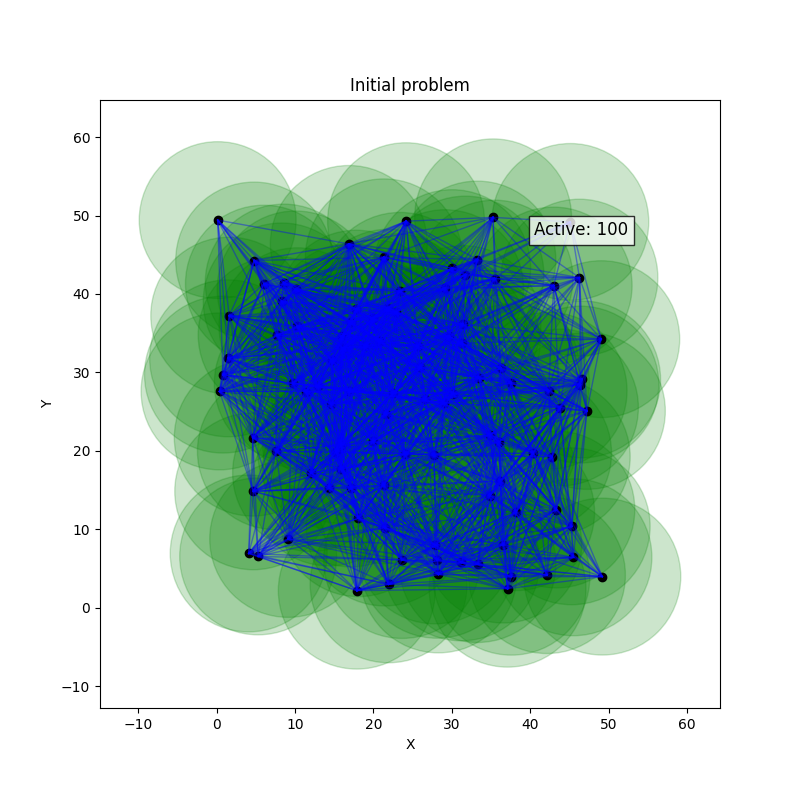
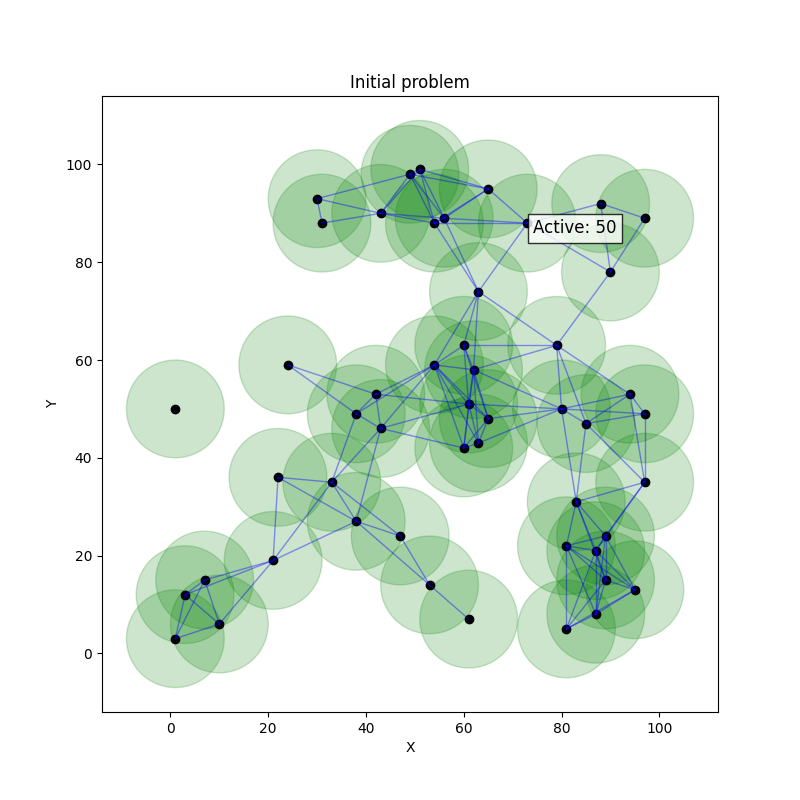
Loss function change

diff --git a/Crossing.py b/Crossing.py
@@ -4,12 +4,14 @@ from Visualizer import plot_transmitters
 
 class Crossing(GeneticAlgorithm):
 
-    def __init__(self, transmitters, radius, n_population, n_generations, n_crossover, n_mutation):
-        super().__init__(transmitters, radius,c1=1, c2=-1)
+    def __init__(self, transmitters, radius, n_plane_min, n_plane_max, n_population, n_generations, n_crossover, n_mutation):
+        self.n_plane_min = n_plane_min
+        self.n_plane_max = n_plane_max
         self.n_population = n_population
         self.n_generations = n_generations
         self.n_crossover = n_crossover
         self.n_mutation = n_mutation
+        super().__init__(transmitters, radius,c1=1, c2=100)
 
 
     def select(self, population, scores, n_tournament_size=5):
@@ -25,7 +27,6 @@ class Crossing(GeneticAlgorithm):
         
         return population[best_parent_idx]
 
-    
 
     def crossover(self, parent1, parent2):
         child1 = np.copy(parent1)
@@ -43,6 +44,34 @@ class Crossing(GeneticAlgorithm):
         for i, bit in enumerate(child):
             if np.random.rand() < self.n_mutation:
                 child[i] = not bit
+
+
+    def is_covered(self, x, y, transmitter):
+        return np.sqrt((transmitter[0] - x)**2 + (transmitter[1] - y)**2) < self.radius
+
+
+    def calculate_area_coverage(self, active_transmitters):
+        grid_x, grid_y = np.meshgrid(
+            np.arange(self.n_plane_min, self.n_plane_max),
+            np.arange(self.n_plane_min, self.n_plane_max)
+        )
+        grid = np.stack([grid_x, grid_y], axis=-1).reshape(-1, 2)
+
+        covered = np.zeros(len(grid), dtype=bool)
+
+        for tx in active_transmitters:
+            dist = np.linalg.norm(grid - tx, axis=1)
+            covered |= dist < self.radius
+
+        return (len(grid) - np.count_nonzero(covered)) / len(grid)
+
+
+
+    def calculate_score(self, bitmask):
+        active_indices = np.where(bitmask)[0]
+        active_transmitters = self.transmitters[active_indices]
+
+        return -self.c1 * len(active_transmitters) / self.n_population + self.c2 * self.calculate_area_coverage(active_transmitters)
 
 
     def run_iteration(self):
@@ -82,18 +111,21 @@ class Crossing(GeneticAlgorithm):
         print(f"Best score {best_score:.2f}")
         return best_member, best_score
 
-np.random.seed(123)
+#np.random.seed(123)
 
-n_population = 100 # Population size, should be even number
-n_transmitters = 100 # Number of transmitters
-n_generations = 100 # Number of generations
+n_plane_min = 0 
+n_plane_max = 100
+
+n_population = 50 # Population size, should be even number
+n_transmitters = 50 # Number of transmitters
+n_generations = 20 # Number of generations
 n_crossover = 1.0 # A chance for crossover
 n_mutation = 0.2 # A chance for mutation
 
-transmitters = np.random.rand(n_transmitters, 2) * 50
+transmitters = np.random.randint(low=n_plane_min, high=n_plane_max, size=(n_transmitters, 2))
 radius = 10 #np.random.randint(1, 10)
 
-crossing = Crossing(transmitters, radius, n_population, n_generations, n_crossover, n_mutation)
+crossing = Crossing(transmitters, radius, n_plane_min, n_plane_max, n_population, n_generations, n_crossover, n_mutation)
 
 mask = np.ones(n_transmitters, dtype=bool)
 

diff --git a/GeneticAlgorithm.py b/GeneticAlgorithm.py
@@ -16,12 +16,12 @@ class GeneticAlgorithm:
     def calculate_score(self, bitmask):
         active_indices = np.where(bitmask)[0]
         if len(active_indices) == 0:
-            return float('inf')
+            return 0
         
         active_transmitters = self.transmitters[active_indices]
 
         if not self.is_connected(active_transmitters):
-            return float('inf')
+            return 0
 
         area = self.approximate_coverage_area(active_transmitters)
         num_active = len(active_indices)
